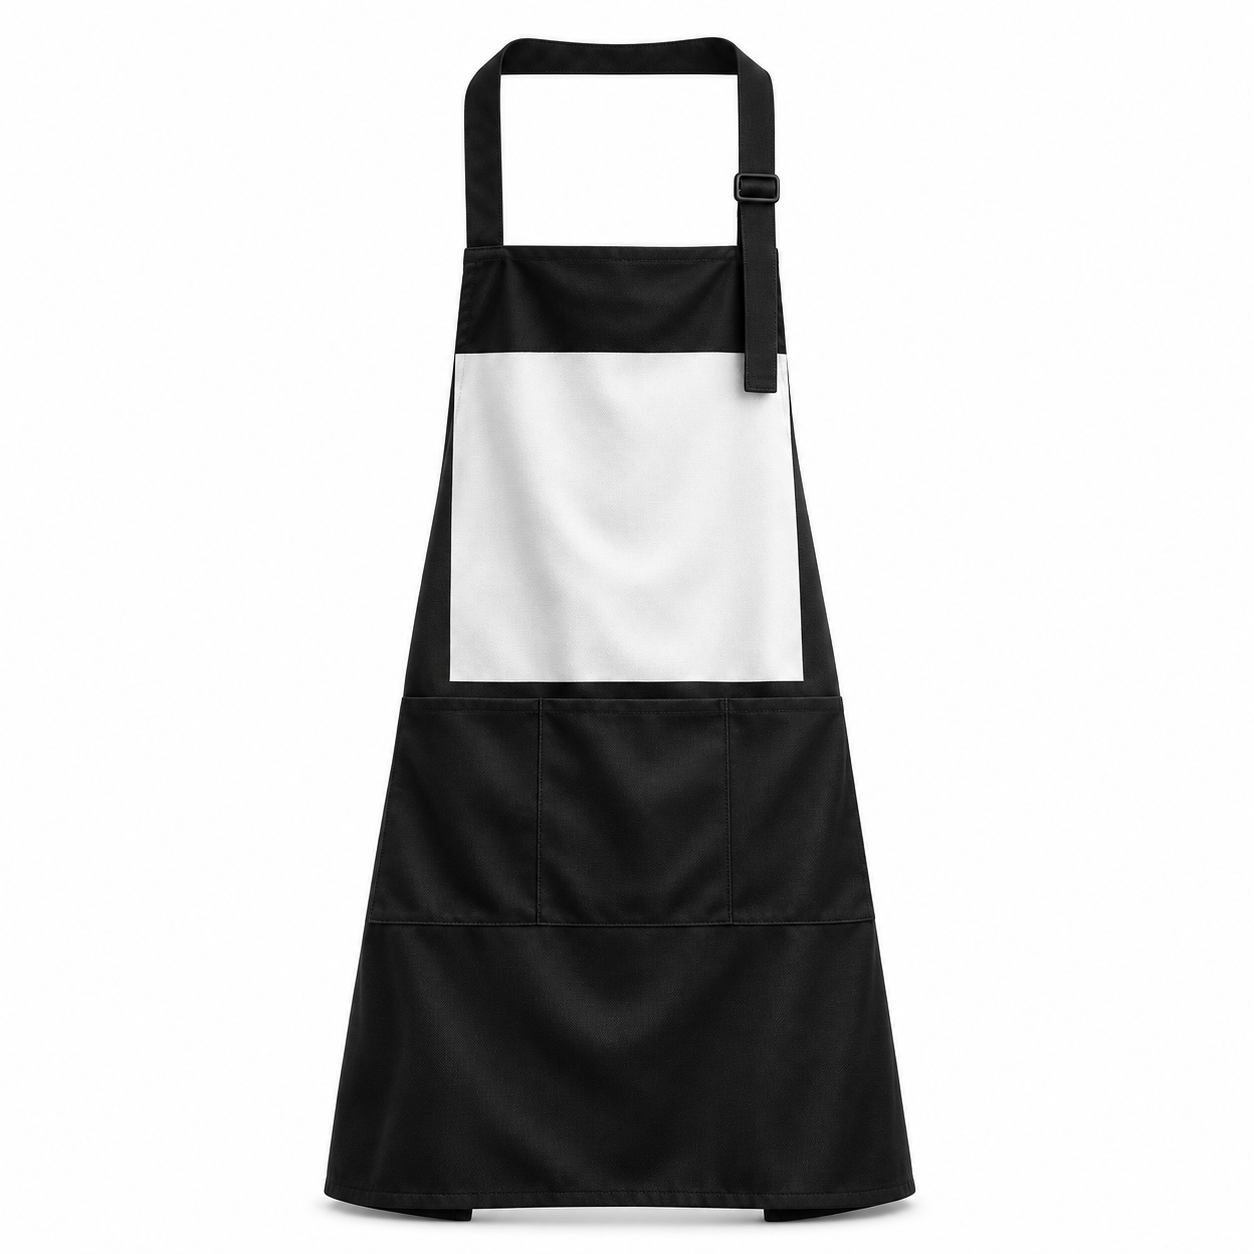
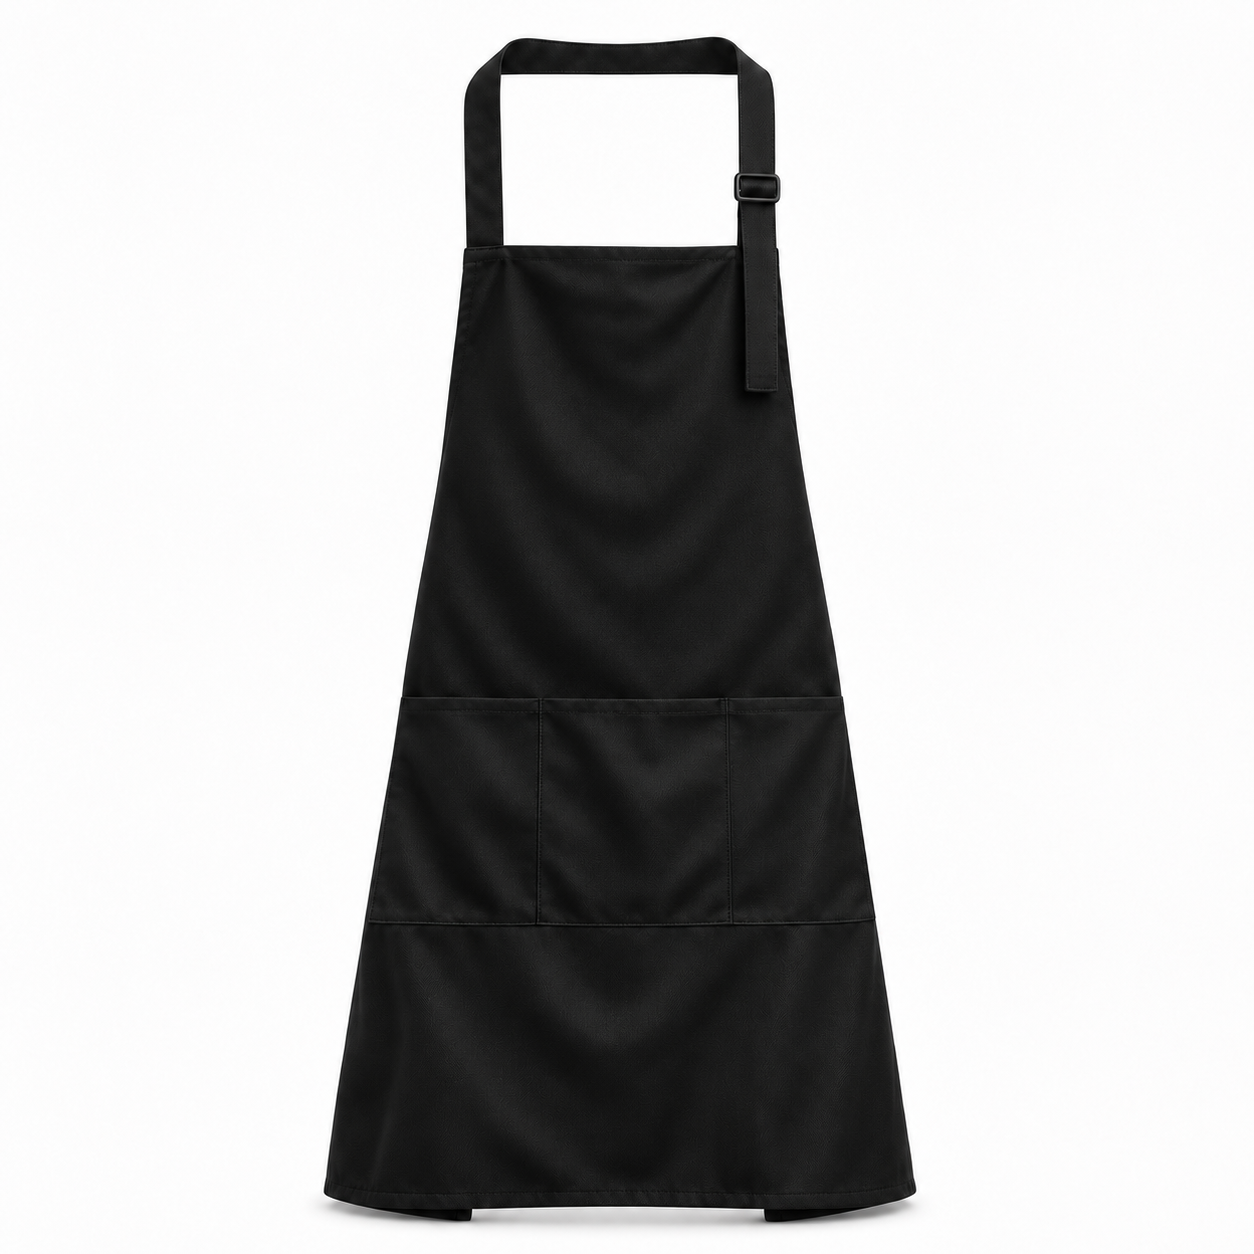
Clarify apron print-area mask handling

Changed region(s): [[0.3421, 0.2799, 0.6842, 0.5598]]

diff --git a/apps/backend/src/api/store/vibeya/ai/generate/route.ts b/apps/backend/src/api/store/vibeya/ai/generate/route.ts
@@ -608,8 +608,8 @@ export const POST = async (req: MedusaRequest, res: MedusaResponse) => {
     : isApron
     ? [
         `Create exactly ONE photorealistic e-commerce product image on a seamless pure white (#FFFFFF) background. Show one complete black apron front-facing, centered, upright, and fully visible, with natural fabric drape and subtle realistic folds so it looks dimensional without looking stuffed or overly full. Match the exact apron silhouette, proportions, black fabric, neck strap, adjustable buckle, waist ties, seams, panel layout, and texture shown in the blank product reference. Keep the full apron and straps inside the image with balanced white margins. No person, mannequin, hanger, room, props, labels, callouts, captions, decorative text, borders, watermark, or extra products.`,
-        `Image ${references.length + 1} is the authoritative clean blank apron reference. Preserve the apron exactly, including its bib, lower body panels, seams, straps, buckle, proportions, fabric texture, and white-background studio lighting. Image ${references.length + 2} is only a print-area guide for that same apron. Do not reproduce its white marker or alter the garment to match the guide.`,
-        `STRICT PRINT ZONE — APRON BIB ONLY: use the marked rectangle in image ${references.length + 2} to identify the one permitted print region on the upper chest bib. The complete requested artwork, including every letter, outline, shadow, glow, and decorative detail, must remain on the bib and fully inside that marked region. Do not print on the neck strap, buckle, waist ties, side edges, seams, lower apron panels, pockets, or white background. If the artwork would cross the marked boundary, uniformly reduce and reposition the complete design only as much as needed to fit. If no position is specified, center it on the bib at the largest size that fits. Never crop, stretch, fragment, or spill the design outside the bib.`,
+        `REFERENCE ROLES — DO NOT CONFUSE THE TWO IMAGES: image ${references.length + 1} is the authoritative blank product photo. The apron itself is entirely black. Preserve its exact bib, lower panels, pockets, seams, straps, buckle, proportions, fabric texture, and white studio background. Image ${references.length + 2} is a placement mask/guide only. Its white rectangle means ONLY “this area can receive print”; it is NOT white apron fabric, a sewn panel, a white print background, or part of the requested artwork. Never copy the guide's white fill or rectangular edge into the final product.`,
+        `STRICT PRINT ZONE — APRON BIB ONLY: read the white rectangle in image ${references.length + 2} only as coordinates defining the permitted upper-bib print area. Render the garment beneath and around it as continuous black fabric. Place the complete requested artwork entirely within those coordinates, including every letter, outline, shadow, glow, and decorative detail. Do not print on the neck strap, buckle, waist ties, side edges, seams, lower apron panels, pockets, or white studio background. If the artwork would cross the marked boundary, uniformly reduce and reposition the complete design only as much as needed to fit. If no position is specified, center it on the bib at the largest size that fits. Never crop, stretch, fragment, spill outside the print area, or render the white mask itself.`,
         hasUploadedArtwork
           ? `${artworkReferenceLabel} Use the uploaded artwork as the design source on the bib. Follow the customer's written instructions closely and keep the artwork recognizable.`
           : "Create original artwork for the bib by following the customer's written instructions closely.",

diff --git a/apps/backend/src/lib/vibeya-product-designer.ts b/apps/backend/src/lib/vibeya-product-designer.ts
@@ -43,7 +43,7 @@ const legacyGenerationPromptTemplates: Record<string, string> = {
   "sds-128646": "Stainless tumbler: apply one continuous full-wrap design across the complete cylindrical body and align it across the front, side, and back views. Keep the lid, straw, metal rim, and bottom edge unprinted.",
   "sds-138708": "Bath mat: cover the complete printable top fabric face edge to edge, including rounded corners. Preserve the mat silhouette, stitching, plush texture, and white photo background; never print outside the mat.",
   "sds-97226": "Flannel throw blanket: apply one continuous full-bleed design to the visible front face only. Preserve the soft flannel texture, natural folds, rectangular shape, and two-hook hanging presentation.",
-  "sds-275844": "Apron: print only inside the marked upper bib area. Keep straps, buckle, ties, seams, lower apron, and background unprinted; preserve the complete black apron shape and fabric.",
+  "sds-275844": "Apron: the white rectangle in the print-area guide is only a placement mask that marks the printable upper bib. It is not white apron fabric, a sewn patch, a white print background, or part of the artwork. The entire real apron is black; render continuous black fabric beneath and around the design. Print the complete design only inside the guide coordinates, and keep the straps, buckle, ties, seams, lower apron, pockets, and studio background unprinted. Unless the customer explicitly requests a background, use borderless artwork so the black fabric shows through.",
   "vibeya-shower-curtain": "Shower curtain: apply the design only to the printable curtain panel and preserve its selected dimensions, grommets, seams, folds, fabric, and clean hanging product presentation.",
   "sds-63823": "Yoga set: use the same coordinated print across the crop-top front and back and shorts front and back. Preserve the four-view layout, matte stretch-knit texture, black binding, seams, and product construction.",
   "sds-137892": "Tankini set: keep the top and shorts as a matching two-piece set. Apply coordinated artwork only to the marked printable fabric panels; preserve trim, seams, silhouette, fit, and selected color.",

diff --git a/apps/backend/src/api/admin/vibeya/product-designer/route.ts b/apps/backend/src/api/admin/vibeya/product-designer/route.ts
@@ -85,11 +85,13 @@ export const POST = async (req: MedusaRequest, res: MedusaResponse) => {
   if (designer.enabled && !designer.references.length) return res.status(400).json({ error: "启用设计器前，请至少添加一张商品底图。" })
   if (designer.enabled && designer.mode === "front-back") {
     const sides = new Set(designer.references.map((reference) => reference.side))
-    if (!sides.has("front") || !sides.has("back")) {
-      return res.status(400).json({ error: "正反面设计需要同时配置正面和背面底图。" })
+    const needsFront = designer.placements.some((placement) => ["front", "both"].includes(placement))
+    const needsBack = designer.placements.some((placement) => ["back", "both"].includes(placement))
+    if ((needsFront && !sides.has("front")) || (needsBack && !sides.has("back"))) {
+      return res.status(400).json({ error: "请为启用的每个印刷面配置对应商品底图。" })
     }
-    if (designer.references.some((reference) => (reference.side === "front" || designer.placements.some((placement) => ["back", "both"].includes(placement))) && !reference.printAreaImageUrl)) {
-      return res.status(400).json({ error: "开放正反面设计的每一面都需要印花区域参考图。" })
+    if (designer.references.some((reference) => ((reference.side === "front" && needsFront) || (reference.side === "back" && needsBack)) && !reference.printAreaImageUrl)) {
+      return res.status(400).json({ error: "启用的每个印刷面都需要印花区域参考图。" })
     }
   }
   if (designer.enabled && designer.mode === "full-surface" && !designer.references.some((reference) => reference.side === "surface")) {
